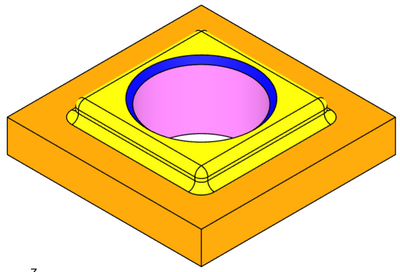
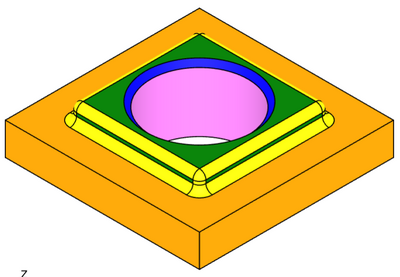
improve alteration determinant, bump version

diff --git a/bumo/mutation.py b/bumo/mutation.py
@@ -116,6 +116,14 @@ class Mutation:
                 if this_hash == cls.hash_shape(that_edge):
                     return True
 
+
+        if (
+            this_face.geom_type == that_face.geom_type
+            and this_face.location == that_face.location
+            and this_face.center_location == that_face.center_location
+        ):
+            return True
+
         return False
 
     def is_altered_face(self, face: _.Face):
@@ -127,6 +135,13 @@ class Mutation:
 
         for edge in face.edges():
             if self.hash_shape(edge) in self.previous.edges:
+                return True
+
+        for that_face in self.previous.faces():
+            if (face.geom_type == that_face.geom_type
+                and face.location == that_face.location
+                and face.center_location == that_face.center_location
+            ):
                 return True
 
         return False

diff --git a/examples/base.py b/examples/base.py
@@ -1,14 +1,11 @@
 import build123d as _
 from bumo import Builder
 
-Builder.default_color = "grey"
-
-obj = Builder(_.Box(9, 9, 3), color="orange")
-# obj.move(_.Location([3, 0, 0]) * _.Rotation(15, 0, 0))
-obj.add(_.Box(6, 6, 6))
-obj.add(_.Box(3, 3, 9), color="green")
-hole = obj.sub(_.Cylinder(1, 9), color="blue")
-obj.chamfer(hole.edges_added()[0], 0.2, color="pink")
+obj = Builder(_.Box(12, 12, 2), "orange")
+obj.add(_.Box(8, 8, 4), "green")
+obj.fillet(obj[-1].edges_added(), 0.4, color="yellow")
+hole = obj.sub(_.Cylinder(3, 4), "violet")
+obj.chamfer(hole.edges_added()[0], 0.3, color="blue")
 
 for mutation in obj.mutations:
     print(mutation)

diff --git a/README.md b/README.md
@@ -102,8 +102,6 @@ obj.chamfer(hole.edges_added()[0], 0.3, color="blue")
 
 ![](./images/chamfers_and_fillets.png)
 
-You may notice that the "top box" is not green anymore: this is because the yellow part produced by the fillet shares no edge with the top box, so the part is considered to be new and not just altered. In the other hand, the hole kept its pink color, because the bottom circular edge is still connected to the box.
-
 ### Using the debug mode
 
 You can turn one or several mutations in debug mode, so all the other faces will be translucent. Either by passing a debug attribute to mutations, or passing faces to the debug method:
